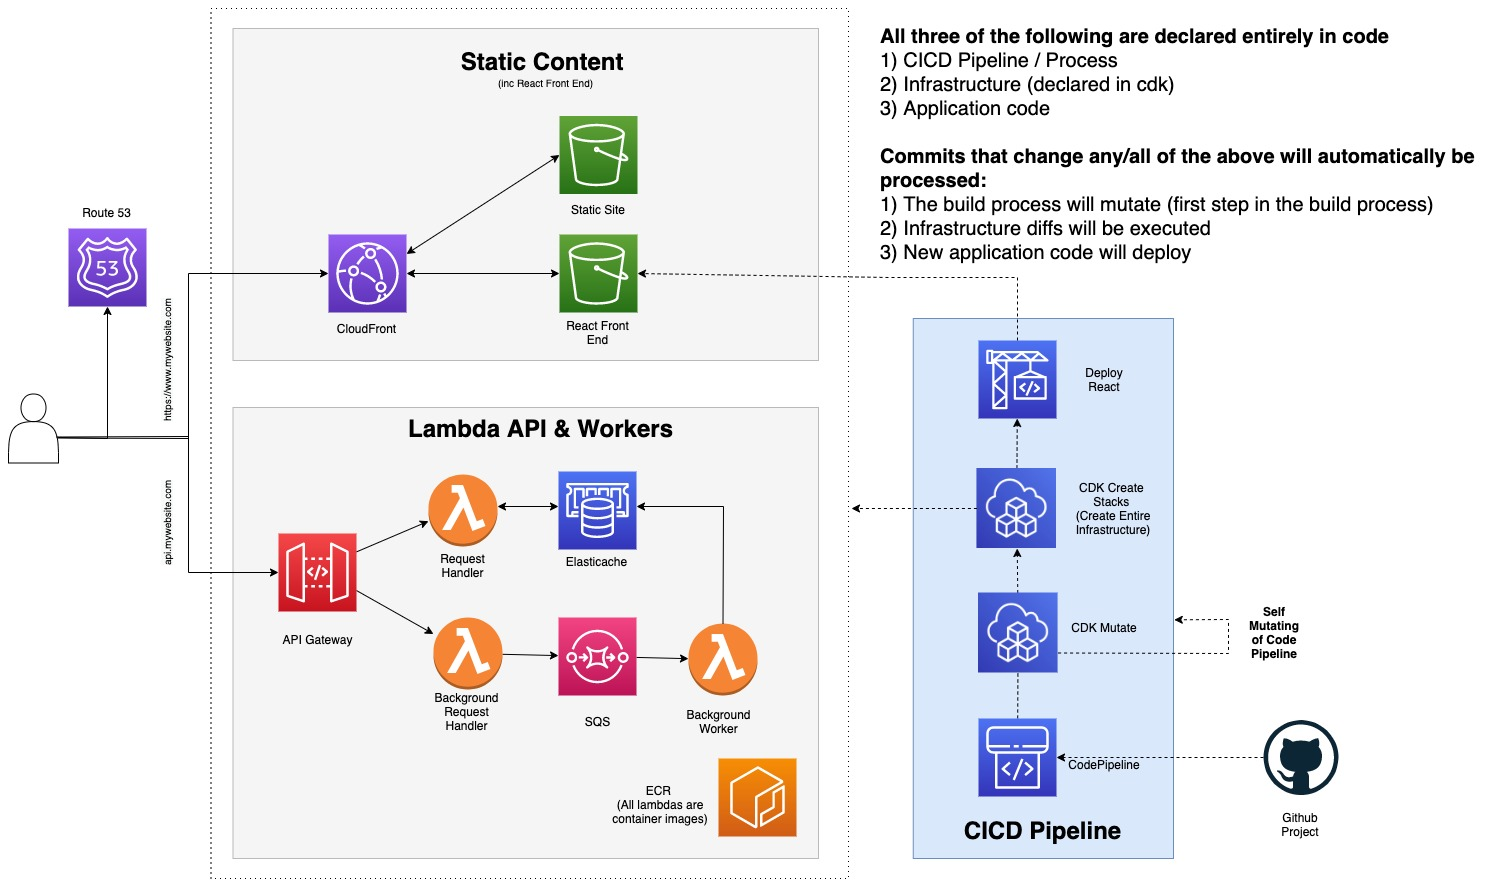
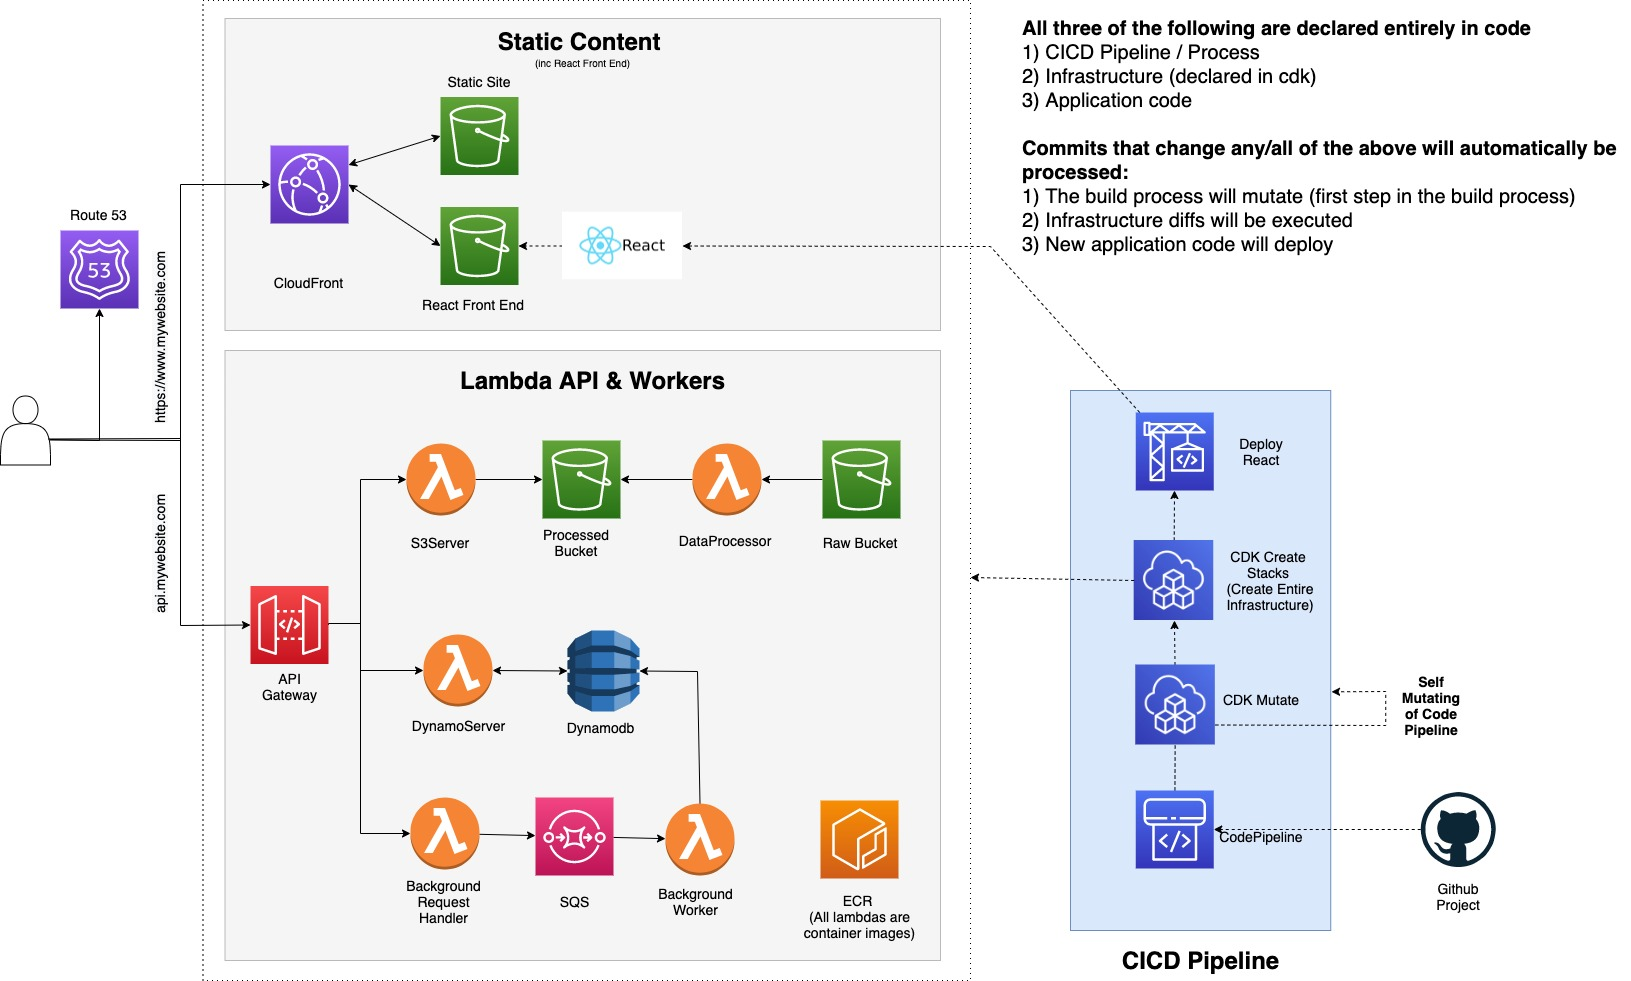
Documentation updates - overview diagram and cicd flow

diff --git a/README.md b/README.md
@@ -23,7 +23,11 @@ The novelty of the project is that all application, infrastructure, pipeline and
 Using the latest features in CDK - any commit which makes changes to any of this list (including the logic of the pipeline itself) will mutate and deploy.
 This enables a single development experience where any element can be changed, committed and the pipeline will handle state changes.
 
+### Overview
+
 ![TUB Overview](documentation/TUB.jpg?raw=true "The Startup Toolbag")
+
+![TUB CICD](documentation/TUB-CICD Pipeline.jpg?raw=true "The Startup Toolbag CICD")
 
 ## Prerequisites
 
